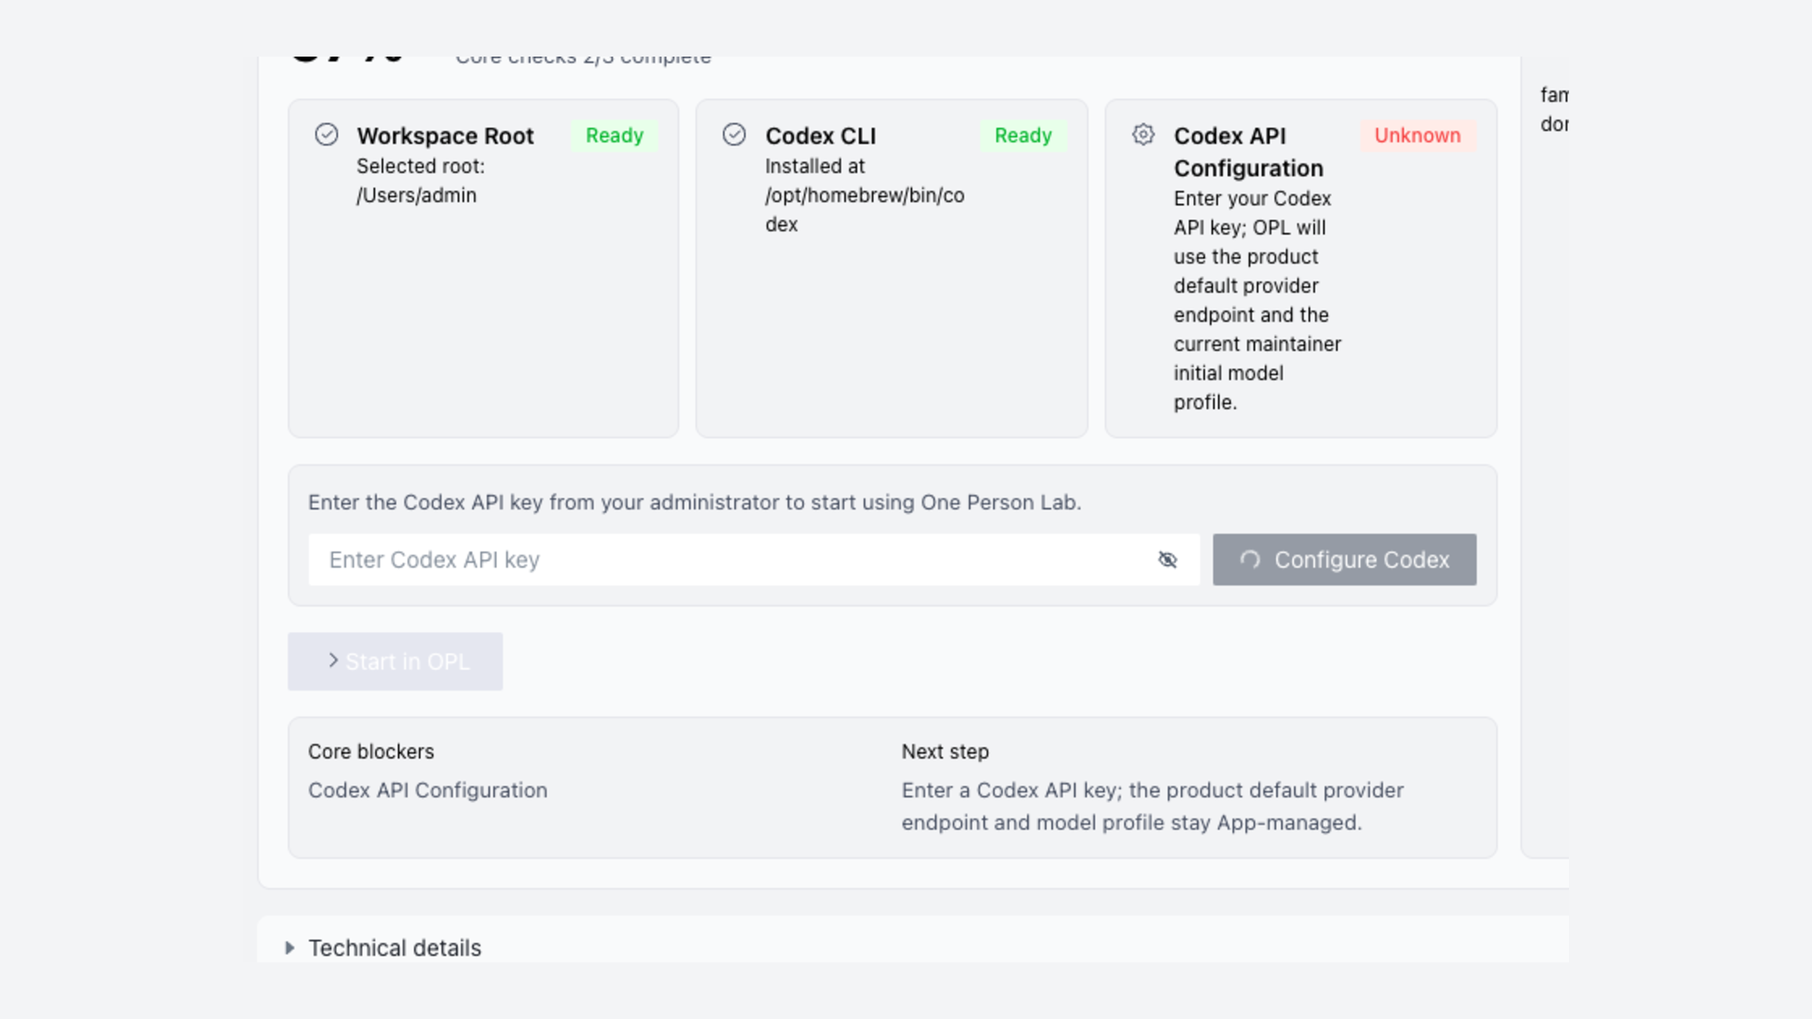
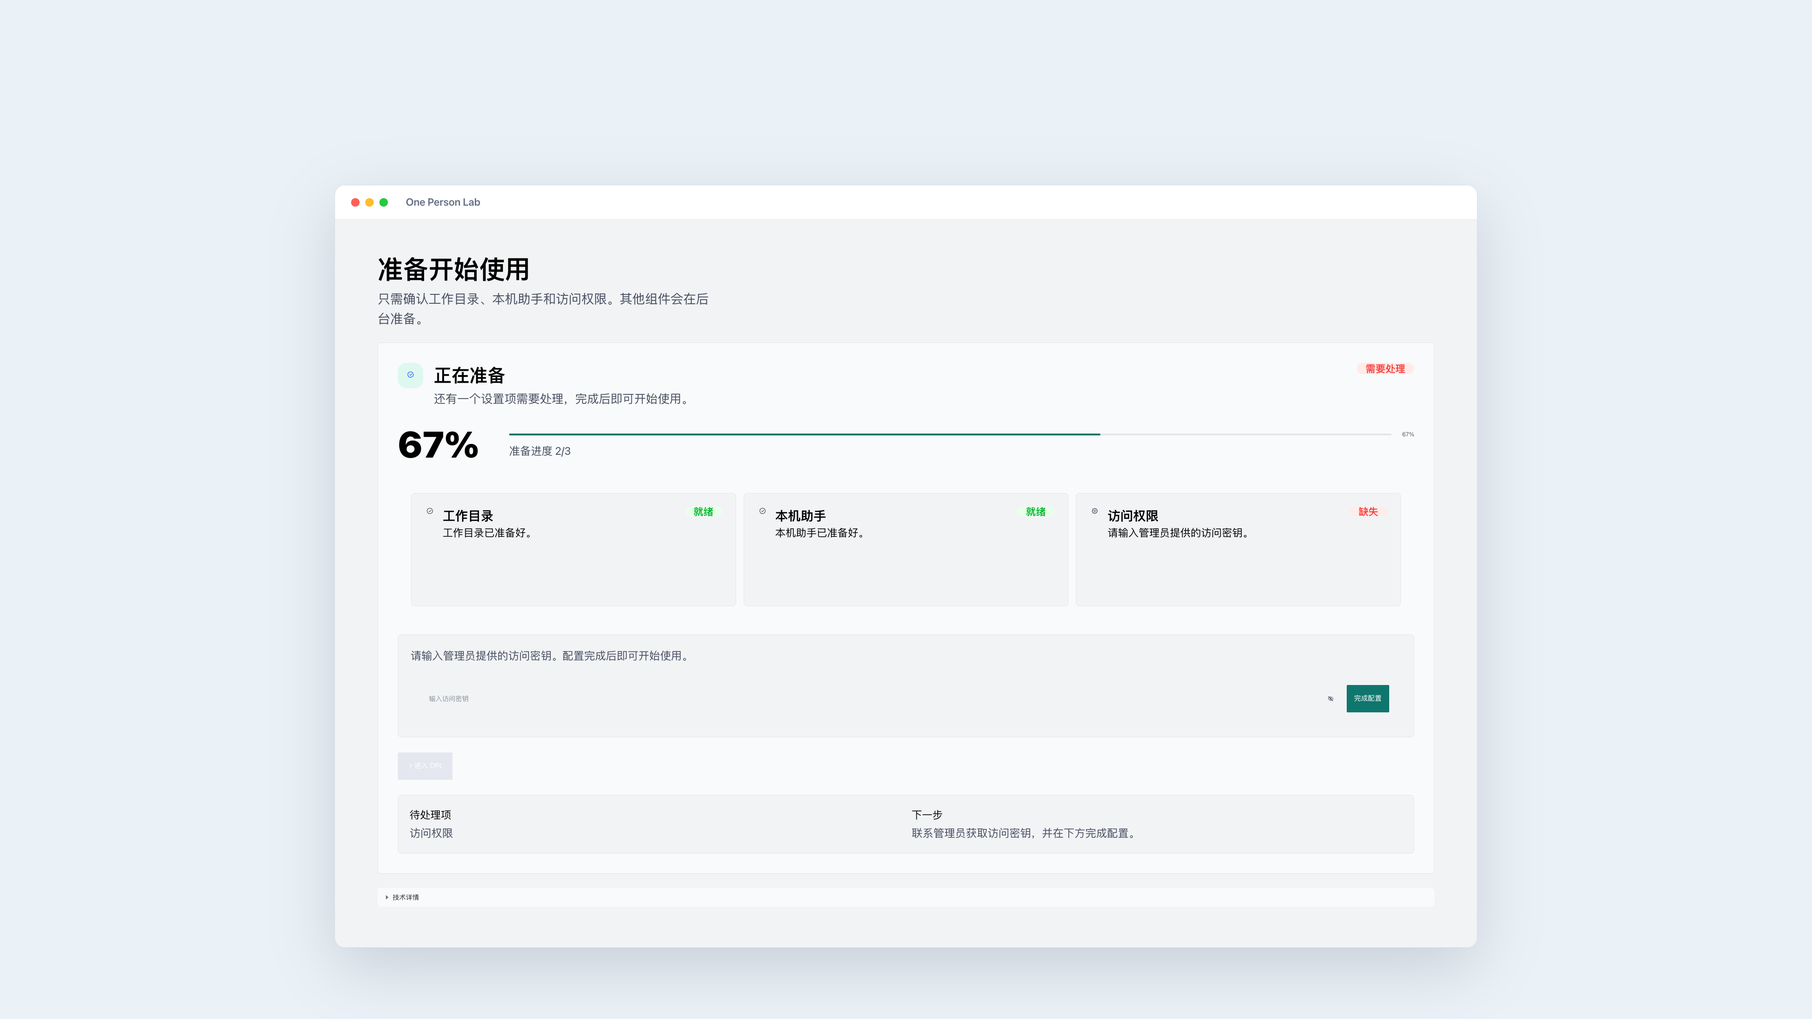
docs(first-run): refresh beginner setup guide

diff --git a/scripts/validate-active-shell.ts b/scripts/validate-active-shell.ts
@@ -87,7 +87,6 @@ const forbiddenAuthorityOwners = [
 const beginnerFirstRunTestIds = [
   'opl-first-run-beginner-summary',
   'opl-first-run-primary-action',
-  'opl-first-run-background-maintenance-secondary',
   'opl-first-run-technical-details-toggle',
 ];
 const appOwnedSettingsTabs = ['overview', 'runtime', 'capabilities', 'access', 'appearance', 'system', 'about'];
@@ -137,7 +136,7 @@ function validateBeginnerFirstRunPresentation(presentation, label) {
   assertIncludesAll(presentation.primary_steps, firstRunCoreItems, `${label} primary steps`);
   for (const [field, expected] of Object.entries({
     advanced_progress_disclosure: 'collapsed_or_secondary',
-    background_maintenance_presentation: 'secondary_non_blocking',
+    background_maintenance_presentation: 'collapsed_technical_non_blocking',
     technical_detail_policy: 'hidden_until_expanded_or_error',
   })) {
     if (presentation[field] !== expected) {
@@ -512,13 +511,21 @@ function validateActiveShellImplementation(shellPaths) {
         throw new Error(`Active shell ${locale} first-run locale must include ${expected}`);
       }
     }
+    const settingsLocale = JSON.parse(text);
+    const firstRunLocaleText = JSON.stringify(settingsLocale.firstRun ?? {});
+    const firstLaunchLocaleText = JSON.stringify(settingsLocale.oplFirstLaunch ?? {});
+    const firstRunSetupText = `${firstRunLocaleText}\n${firstLaunchLocaleText}`;
     for (const forbidden of [
       '"title": "Prepare One Person Lab"',
       '"wizardTitle": "Prepare One Person Lab"',
       'Checking the essentials',
       'Ready to start',
+      'Codex API 配置',
+      'Codex API Key',
+      'Codex API Configuration',
+      'Needs setup',
     ]) {
-      if (text.includes(forbidden)) {
+      if (firstRunSetupText.includes(forbidden)) {
         throw new Error(`Active shell ${locale} first-run locale must not expose English fallback ${forbidden}`);
       }
     }
@@ -667,6 +674,38 @@ function validateActiveShellImplementation(shellPaths) {
   for (const expected of beginnerFirstRunTestIds.map((id) => `data-testid='${id}'`)) {
     if (!firstRunPage.includes(expected)) {
       throw new Error(`Active shell FirstRun page must implement beginner first-run surface ${expected}`);
+    }
+  }
+  if (!firstRunPage.includes("data-testid='opl-first-run-background-maintenance-secondary'")) {
+    throw new Error('Active shell FirstRun page must keep background maintenance available in technical details');
+  }
+  const firstRunProgressStart = firstRunPage.indexOf("data-testid='opl-first-run-progress'");
+  const technicalDetailsStart = firstRunPage.indexOf('<Collapse', firstRunProgressStart);
+  const backgroundMaintenanceIndex = firstRunPage.indexOf("data-testid='opl-first-run-background-maintenance-secondary'");
+  if (
+    firstRunProgressStart < 0 ||
+    technicalDetailsStart < 0 ||
+    backgroundMaintenanceIndex < 0 ||
+    (backgroundMaintenanceIndex > firstRunProgressStart && backgroundMaintenanceIndex < technicalDetailsStart)
+  ) {
+    throw new Error('Active shell FirstRun page must keep background maintenance out of the beginner primary area');
+  }
+  for (const expected of [
+    'formatItemLabel',
+    'formatItemSummary',
+    'formatNextVisibleStep',
+    'ITEM_LABEL_KEYS',
+    'ITEM_SUMMARY_KEYS',
+    'NEXT_STEP_KEYS',
+    "t('settings.firstRun.nextSteps.generic')",
+  ]) {
+    if (!firstRunPage.includes(expected)) {
+      throw new Error(`Active shell FirstRun page must map technical initialize text to App-owned beginner copy: ${expected}`);
+    }
+  }
+  for (const forbidden of ['item?.label ?? label', 'item?.detail_summary ?? item?.next_visible_step']) {
+    if (firstRunPage.includes(forbidden)) {
+      throw new Error(`Active shell FirstRun beginner primary area must not directly render initialize fallback text: ${forbidden}`);
     }
   }
 
@@ -2048,7 +2087,7 @@ function validatePageStateMatrix(matrix, contract) {
     'next visible step',
     'beginner-facing readiness summary',
     'primary start action',
-    'background maintenance secondary disclosure',
+    'background maintenance collapsed technical disclosure',
     'technical details toggle',
   ]) {
     if (!firstLaunchPage.must_show?.includes(signal)) {
@@ -2059,10 +2098,30 @@ function validatePageStateMatrix(matrix, contract) {
     'Homebrew, Node, Git, CLT, module, provider, or runtime maintenance as primary first-screen terminal goals',
     'Full readiness progress as the dominant first-screen message',
     'raw command output in the beginner primary area',
+    'English runtime checklist labels in the Chinese beginner primary area',
+    'Codex API Configuration, Unknown, or Needs setup in the Chinese beginner primary area',
+    'background maintenance counters or labels in the beginner primary area',
   ]) {
     if (!firstLaunchPage.must_not_show?.includes(hiddenSignal)) {
       throw new Error(`First-launch readiness page must not show ${hiddenSignal}`);
     }
+  }
+  const localizationPolicy = firstLaunchPage.beginner_view_model?.localization_policy;
+  assertIncludesAll(
+    localizationPolicy?.chinese_primary_labels,
+    ['工作目录', '本机助手', '访问权限'],
+    'First-launch readiness beginner localization labels',
+  );
+  assertIncludesAll(
+    localizationPolicy?.forbidden_primary_area_text,
+    ['Codex API Configuration', 'Unknown', 'Needs setup', 'setup_flow', 'opl system'],
+    'First-launch readiness beginner forbidden primary text',
+  );
+  if (
+    localizationPolicy?.technical_label_policy !==
+    'map_initialize_item_ids_to_app_owned_beginner_labels_before_rendering_primary_area'
+  ) {
+    throw new Error('First-launch readiness beginner localization must map initialize item ids before rendering');
   }
   const firstLaunchProgressModel = firstLaunchPage.progress_model;
   if (firstLaunchProgressModel?.source_command !== firstRunProgressSourceCommand) {
@@ -2578,6 +2637,15 @@ function validateFirstRunMatrix(matrix, contract) {
     beginnerFirstRunTestIds,
     'Beginner first-run scenario shell test ids',
   );
+  for (const expected of [
+    'Chinese locale first-run primary area uses beginner labels such as 工作目录, 本机助手, and 访问权限 even when initialize checklist labels are English',
+    'Chinese locale first-run primary area does not expose Codex API Configuration, Unknown, Needs setup, raw setup_flow fields, or opl system commands',
+    'access key entry uses beginner-facing 访问密钥 copy while keeping the narrow Codex configuration bridge underneath',
+  ]) {
+    if (!beginnerScenario.expects?.includes(expected)) {
+      throw new Error(`Beginner first-run scenario must require localized beginner setup UX: ${expected}`);
+    }
+  }
   validateStandardBootstrapScenario(scenarioById.get('standard_app_managed_bootstrap'));
   validateCommandLineToolsScenario(scenarioById.get('macos_clt_system_installer'));
   validateEcosystemModuleScenario(scenarioById.get('ecosystem_modules_app_cli_managed'));

diff --git a/scripts/build-user-guide-pdf.ts b/scripts/build-user-guide-pdf.ts
@@ -40,14 +40,14 @@ const steps = [
     notes: ['安装完成后从 Applications 启动 App。', '不要长期在 DMG 挂载窗口内运行 App。'],
   },
   {
-    title: '3. 配置 Codex 权限',
-    body: '首次启动如果 Codex API 配置还未完成，界面会把 Codex API Configuration 标为需要处理。统一联系 gflabtoken 管理员开通。',
+    title: '3. 配置访问权限',
+    body: '首次启动如果提示访问权限未配置，请联系 gflabtoken 管理员获取访问密钥，并在首启页面完成配置。',
     asset: '03-codex-config-needed.png',
-    notes: ['管理员开通后，按管理员给出的方式完成配置。', '不要把密钥截图、转发或写入研究数据目录。'],
+    notes: ['管理员开通后，在页面输入访问密钥并点击完成配置。', '不要把密钥截图、转发或写入研究数据目录。'],
   },
   {
     title: '4. 等待首次环境检查',
-    body: 'OPL 会先检查开始使用所需的关键项：工作目录、Codex CLI 和 Codex 权限。首屏只显示“正在准备 / 可以开始 / 需要处理”的简短状态、三步准备进度、下一步，以及进入 OPL 的主按钮。',
+    body: 'OPL 会先检查开始使用所需的关键项：工作目录、本机助手和访问权限。首屏只显示“正在准备 / 可以开始 / 需要处理”的简短状态、三步准备进度、下一步，以及进入 OPL 的主按钮。',
     asset: '04-first-run-checking.png',
     notes: [
       '首启准备可能需要几分钟，进度来自 OPL 底层初始化状态；App 只负责展示，不单独维护另一套安装进度。',
@@ -63,7 +63,7 @@ const steps = [
   },
   {
     title: '6. 确认工作目录和运行设置',
-    body: '在 Settings / Overview 中确认 Workspace Root、Codex CLI、Foundry Agents 和 Access 等入口。需要调整数据目录或运行设置时，从这里进入。',
+    body: '在设置概览中确认工作目录、本机助手、智能体入口和访问状态。需要调整数据目录或运行设置时，从这里进入。',
     asset: '06-research-data-folder.png',
     notes: ['建议按一个病种或稳定研究主题建立本地 workspace，再把原始或脱敏材料集中放入工作目录。', '患者数据需先脱敏，并遵守本机构数据管理要求。'],
   },
@@ -162,13 +162,13 @@ function buildMarkdown(options: { pandocPageBreaks?: boolean } = {}) {
     '',
     `下载最新版本：${latestReleaseUrl}`,
     '',
-    '> 涉及 Codex API Key 或 Codex 权限配置时，请联系 gflabtoken 管理员开通。不要自行购买、复制来源不明的密钥，或把密钥写入研究数据目录。',
+    '> 涉及访问权限配置时，请联系 gflabtoken 管理员获取访问密钥。不要自行购买、复制来源不明的密钥，或把密钥写入研究数据目录。',
     '',
     '## 准备清单',
     '',
     '- 一台 Apple Silicon Mac 或可运行 macOS App 的 Mac。',
     '- 稳定网络，用于下载 One Person Lab 和完成首次环境检查。',
-    '- gflabtoken 开通状态；涉及 Codex 权限时请联系 gflabtoken 管理员。',
+    '- gflabtoken 开通状态；涉及访问权限时请联系 gflabtoken 管理员获取访问密钥。',
     '- 本地研究数据文件夹，数据需完成脱敏并符合本机构数据管理要求。',
     '- 变量说明、纳排标准、终点定义、统计计划、参考文献或已有草稿；可以先放入专病 workspace 的 `raw_data/`。',
     '',
@@ -194,7 +194,7 @@ function buildMarkdown(options: { pandocPageBreaks?: boolean } = {}) {
     '',
     '- 下载失败：换网络后重试，或请技术支持人员确认 GitHub Release 是否可访问。',
     '- 打不开 App：确认已拖入 Applications，并按 macOS 安全提示允许打开。',
-    '- Codex 未配置：联系 gflabtoken 管理员开通。',
+    '- 访问权限未配置：联系 gflabtoken 管理员获取访问密钥，并在首启页面完成配置。',
     '- 模块未就绪：在 App 的环境管理中重新检查，确认 OPL 完整安装资产与本机网络状态。',
     '- 数据路径看不到：确认选择的是本机可访问的专病 workspace，或能看到其中的 `raw_data/`。',
     '- 任务启动后不知道看哪里：查看运行状态页的当前阶段、下一步和需要人工确认的项目。',
@@ -202,7 +202,7 @@ function buildMarkdown(options: { pandocPageBreaks?: boolean } = {}) {
     '## 截图与验证来源',
     '',
     '- 截图资产统一规范化为 3840x2160；来源包括 GitHub Release 页面、本机 26.5.28 DMG 安装窗口、26.5.28 App CDP 截图，以及 26.5.28 GitHub Actions clean VM artifact。',
-    '- VM smoke 使用真实 DMG 安装到 `/Applications/One Person Lab.app`；标准版验证 GUID 输入页和 Settings 可用，Full 版额外验证 Codex 配置向导和 bundled runtime readiness。首启截图和 layout gate 会验证新手首屏保持简化，技术细节默认折叠。',
+    '- VM smoke 使用真实 DMG 安装到 `/Applications/One Person Lab.app`；标准版验证 GUID 输入页和 Settings 可用，Full 版额外验证访问权限配置向导和 bundled runtime readiness。首启截图和 layout gate 会验证新手首屏保持简化，技术细节默认折叠。',
     '- 每张截图的来源、原始尺寸和 SHA256 记录在 `macos-app-install-assets.json` 与生成后的 verification JSON 中。',
     '- Release、DMG、首启日志和模块状态以 App repo contracts / workflow / VM smoke artifacts 为机器真相。',
     '',

diff --git a/scripts/build-user-guide-slides.ts b/scripts/build-user-guide-slides.ts
@@ -61,25 +61,26 @@ const steps: Step[] = [
     notes: '打开下载的 DMG，将 One Person Lab.app 拖入 Applications。首次打开如出现 macOS 安全提示，按系统提示确认。',
   },
   {
-    title: '3. 配置 Codex 权限',
-    subtitle: 'Codex API Configuration 如果显示 Unknown 或 Needs setup，联系 gflabtoken 管理员开通。',
+    title: '3. 配置访问权限',
+    subtitle: '如果首启页面提示访问权限未配置，请联系 gflabtoken 管理员获取访问密钥。',
     asset: '03-codex-config-needed.png',
     callouts: [
-      '管理员开通后，按给出的方式完成配置。',
+      '管理员开通后，在页面输入访问密钥。',
+      '点击完成配置后继续首启检查。',
       '不要截图、转发或保存密钥到研究目录。',
     ],
-    notes: '涉及 Codex API Key 或 Codex 权限配置时，请联系 gflabtoken 管理员开通。不要自行购买、复制来源不明的密钥，或把密钥写入研究数据目录。',
+    notes: '涉及访问权限配置时，请联系 gflabtoken 管理员获取访问密钥。不要自行购买、复制来源不明的密钥，或把密钥写入研究数据目录。',
   },
   {
     title: '4. 等待首次环境检查',
     subtitle: '首屏只显示准备状态、三步进度、下一步和进入 OPL 的主按钮。',
     asset: '04-first-run-checking.png',
     callouts: [
-      '先检查工作目录、Codex CLI 和 Codex 权限。',
+      '先检查工作目录、本机助手和访问权限。',
       '技术 phase、刷新和原始错误默认收在技术细节里。',
       '遇到阻塞时先阅读界面提示。',
     ],
-    notes: 'OPL 会先检查开始使用所需的关键项：工作目录、Codex CLI 和 Codex 权限。首屏只显示“正在准备 / 可以开始 / 需要处理”的简短状态、三步准备进度、下一步，以及进入 OPL 的主按钮。模块、skills、运行底座和本机工具属于后台维护，技术细节默认折叠。',
+    notes: 'OPL 会先检查开始使用所需的关键项：工作目录、本机助手和访问权限。首屏只显示“正在准备 / 可以开始 / 需要处理”的简短状态、三步准备进度、下一步，以及进入 OPL 的主按钮。模块、skills、运行底座和本机工具属于后台维护，技术细节默认折叠。',
   },
   {
     title: '5. 进入科研入口',
@@ -93,13 +94,13 @@ const steps: Step[] = [
   },
   {
     title: '6. 确认工作目录和运行设置',
-    subtitle: '在 Settings / Overview 中确认 Workspace Root、Codex CLI、Foundry Agents 和 Access。',
+    subtitle: '在设置概览中确认工作目录、本机助手、智能体入口和访问状态。',
     asset: '06-research-data-folder.png',
     callouts: [
       '数据目录和运行入口从 Settings 进入。',
       '患者数据需先脱敏，并遵守机构要求。',
     ],
-    notes: '在 Settings / Overview 中确认 Workspace Root、Codex CLI、Foundry Agents 和 Access 等入口。建议按一个病种或稳定研究主题建立本地 workspace，把原始或脱敏材料集中放入工作目录。',
+    notes: '在设置概览中确认工作目录、本机助手、智能体入口和访问状态。建议按一个病种或稳定研究主题建立本地 workspace，把原始或脱敏材料集中放入工作目录。',
   },
   {
     title: '7. 发起首次科研任务',
@@ -386,7 +387,7 @@ function buildFinalSlide() {
   const left = [
     '下载失败：换网络后重试，或确认 GitHub Release 可访问。',
     '打不开 App：确认已拖入 Applications，并按 macOS 安全提示允许打开。',
-    'Codex 未配置：联系 gflabtoken 管理员开通。',
+    '访问权限未配置：联系 gflabtoken 管理员获取访问密钥，并在首启页面完成配置。',
     '模块未就绪：在 App 的环境管理中重新检查。',
   ];
   const right = [

diff --git a/docs/user-guides/macos-app-install.md b/docs/user-guides/macos-app-install.md
@@ -9,13 +9,13 @@ Machine boundary: Human-readable user guide. Release contracts, workflows, VM sm
 
 下载最新版本：https://github.com/gaofeng21cn/one-person-lab-app/releases/latest
 
-> 涉及 Codex API Key 或 Codex 权限配置时，请联系 gflabtoken 管理员开通。不要自行购买、复制来源不明的密钥，或把密钥写入研究数据目录。
+> 涉及访问权限配置时，请联系 gflabtoken 管理员获取访问密钥。不要自行购买、复制来源不明的密钥，或把密钥写入研究数据目录。
 
 ## 准备清单
 
 - 一台 Apple Silicon Mac 或可运行 macOS App 的 Mac。
 - 稳定网络，用于下载 One Person Lab 和完成首次环境检查。
-- gflabtoken 开通状态；涉及 Codex 权限时请联系 gflabtoken 管理员。
+- gflabtoken 开通状态；涉及访问权限时请联系 gflabtoken 管理员获取访问密钥。
 - 本地研究数据文件夹，数据需完成脱敏并符合本机构数据管理要求。
 - 变量说明、纳排标准、终点定义、统计计划、参考文献或已有草稿；可以先放入专病 workspace 的 `raw_data/`。
 
@@ -38,18 +38,18 @@ Machine boundary: Human-readable user guide. Release contracts, workflows, VM sm
 - 安装完成后从 Applications 启动 App。
 - 不要长期在 DMG 挂载窗口内运行 App。
 
-## 3. 配置 Codex 权限
+## 3. 配置访问权限
 
-首次启动如果 Codex API 配置还未完成，界面会把 Codex API Configuration 标为需要处理。统一联系 gflabtoken 管理员开通。
+首次启动如果提示访问权限未配置，请联系 gflabtoken 管理员获取访问密钥，并在首启页面完成配置。
 
-![3. 配置 Codex 权限](assets/03-codex-config-needed.png)
+![3. 配置访问权限](assets/03-codex-config-needed.png)
 
-- 管理员开通后，按管理员给出的方式完成配置。
+- 管理员开通后，在页面输入访问密钥并点击完成配置。
 - 不要把密钥截图、转发或写入研究数据目录。
 
 ## 4. 等待首次环境检查
 
-OPL 会先检查开始使用所需的关键项：工作目录、Codex CLI 和 Codex 权限。首屏只显示“正在准备 / 可以开始 / 需要处理”的简短状态、三步准备进度、下一步，以及进入 OPL 的主按钮。
+OPL 会先检查开始使用所需的关键项：工作目录、本机助手和访问权限。首屏只显示“正在准备 / 可以开始 / 需要处理”的简短状态、三步准备进度、下一步，以及进入 OPL 的主按钮。
 
 ![4. 等待首次环境检查](assets/04-first-run-checking.png)
 
@@ -68,7 +68,7 @@ OPL 会先检查开始使用所需的关键项：工作目录、Codex CLI 和 Co
 
 ## 6. 确认工作目录和运行设置
 
-在 Settings / Overview 中确认 Workspace Root、Codex CLI、Foundry Agents 和 Access 等入口。需要调整数据目录或运行设置时，从这里进入。
+在设置概览中确认工作目录、本机助手、智能体入口和访问状态。需要调整数据目录或运行设置时，从这里进入。
 
 ![6. 确认工作目录和运行设置](assets/06-research-data-folder.png)
 
@@ -96,7 +96,7 @@ OPL 会先检查开始使用所需的关键项：工作目录、Codex CLI 和 Co
 
 - 下载失败：换网络后重试，或请技术支持人员确认 GitHub Release 是否可访问。
 - 打不开 App：确认已拖入 Applications，并按 macOS 安全提示允许打开。
-- Codex 未配置：联系 gflabtoken 管理员开通。
+- 访问权限未配置：联系 gflabtoken 管理员获取访问密钥，并在首启页面完成配置。
 - 模块未就绪：在 App 的环境管理中重新检查，确认 OPL 完整安装资产与本机网络状态。
 - 数据路径看不到：确认选择的是本机可访问的专病 workspace，或能看到其中的 `raw_data/`。
 - 任务启动后不知道看哪里：查看运行状态页的当前阶段、下一步和需要人工确认的项目。
@@ -104,6 +104,6 @@ OPL 会先检查开始使用所需的关键项：工作目录、Codex CLI 和 Co
 ## 截图与验证来源
 
 - 截图资产统一规范化为 3840x2160；来源包括 GitHub Release 页面、本机 26.5.28 DMG 安装窗口、26.5.28 App CDP 截图，以及 26.5.28 GitHub Actions clean VM artifact。
-- VM smoke 使用真实 DMG 安装到 `/Applications/One Person Lab.app`；标准版验证 GUID 输入页和 Settings 可用，Full 版额外验证 Codex 配置向导和 bundled runtime readiness。首启截图和 layout gate 会验证新手首屏保持简化，技术细节默认折叠。
+- VM smoke 使用真实 DMG 安装到 `/Applications/One Person Lab.app`；标准版验证 GUID 输入页和 Settings 可用，Full 版额外验证访问权限配置向导和 bundled runtime readiness。首启截图和 layout gate 会验证新手首屏保持简化，技术细节默认折叠。
 - 每张截图的来源、原始尺寸和 SHA256 记录在 `macos-app-install-assets.json` 与生成后的 verification JSON 中。
 - Release、DMG、首启日志和模块状态以 App repo contracts / workflow / VM smoke artifacts 为机器真相。
